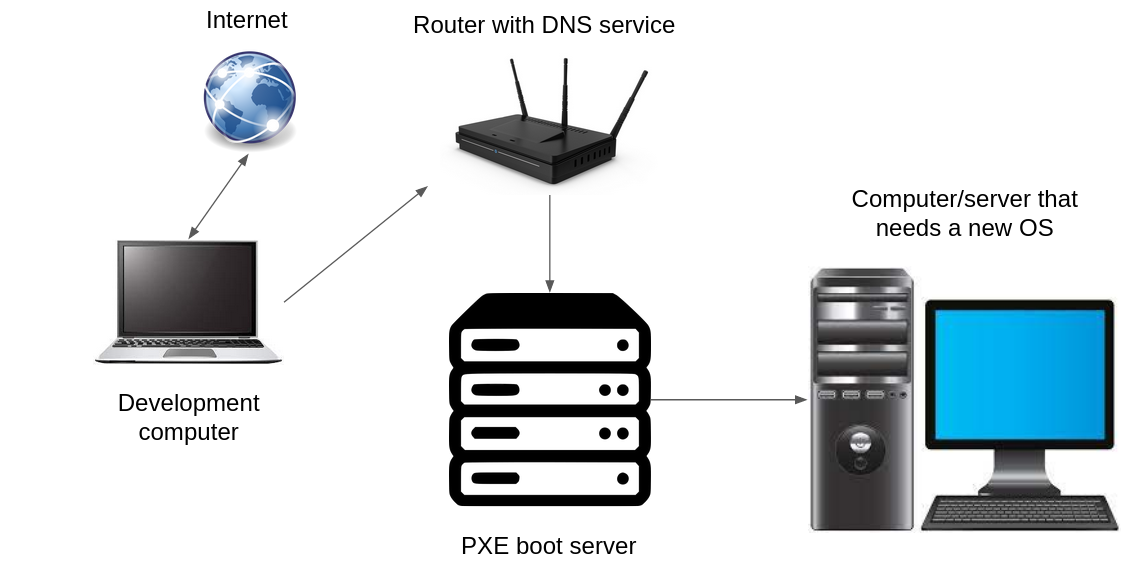
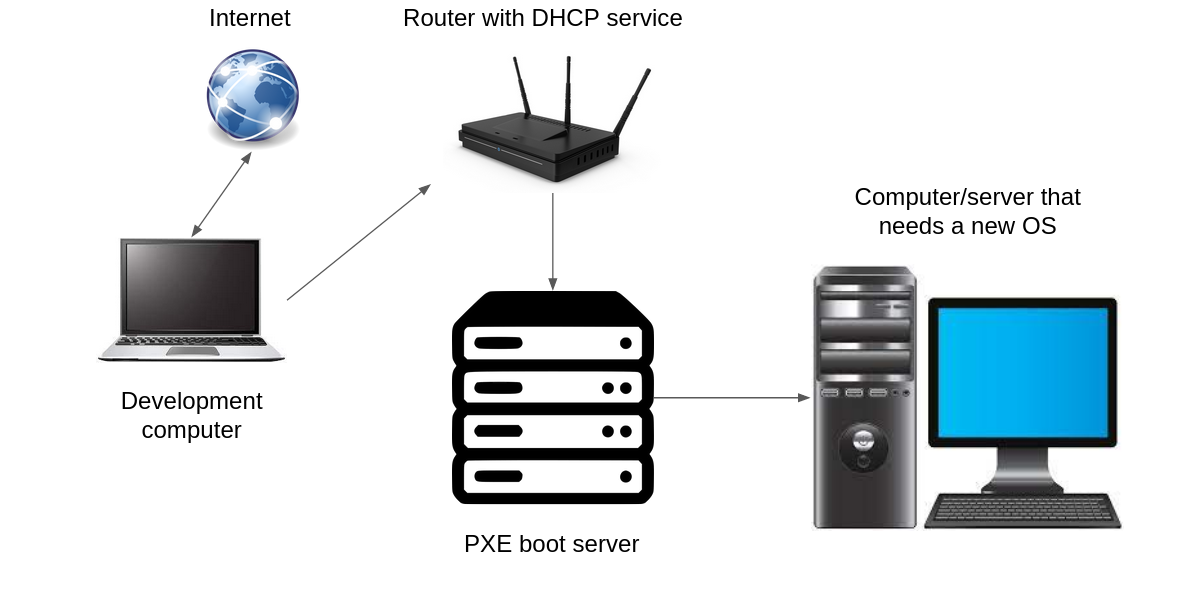
fixed typo

diff --git a/README.md b/README.md
@@ -5,7 +5,7 @@ Keep in mind that if you don't intend to install an Ubuntu distribution you will
 ## Topology
 The test setup was very hacky, it worked but it wasn't possible to connect the computer-to-be-installed or the pxe server to the internet, hence I needed to use my internet connected laptop to serve the ubuntu iso to the pxe server. The setup looked like this:  
 ![setup-overview](.setup-overview.png)
-Because `dnsmasq` is normally used as DNS service and this setup required a router which ran a DNS service, there is a workaround for this in the playbook. I haven't tested it without this workaround but hopefully it's as simple as removing the workaround parts in the playbook to make it work on a setup that is not reliant on a router in the same way. 
+Because `dnsmasq` is normally used as DHCP service and this setup required a router which ran a DHCP service, there is a workaround for this in the playbook. I haven't tested it without this workaround but hopefully it's as simple as removing the workaround parts in the playbook to make it work on a setup that is not reliant on a router in the same way. 
 
 ## Hardcoded paths
 ### `configuration-files/default`
